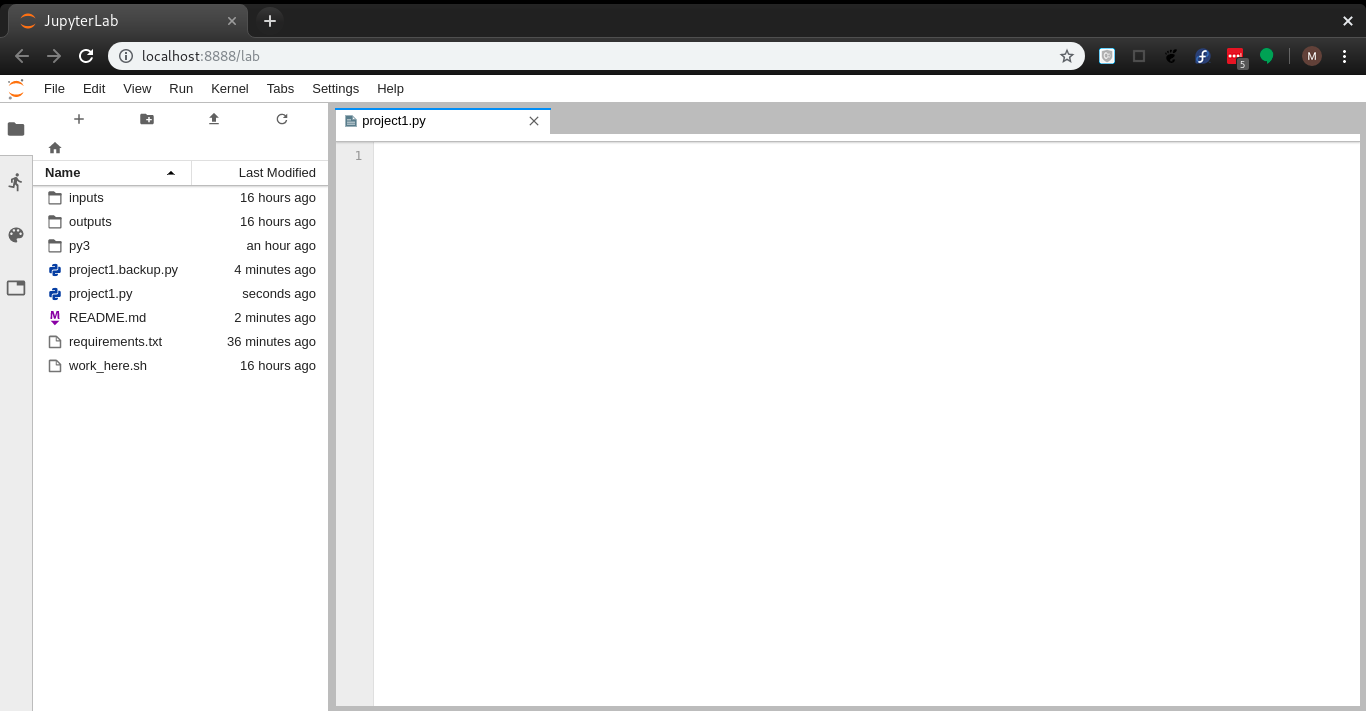
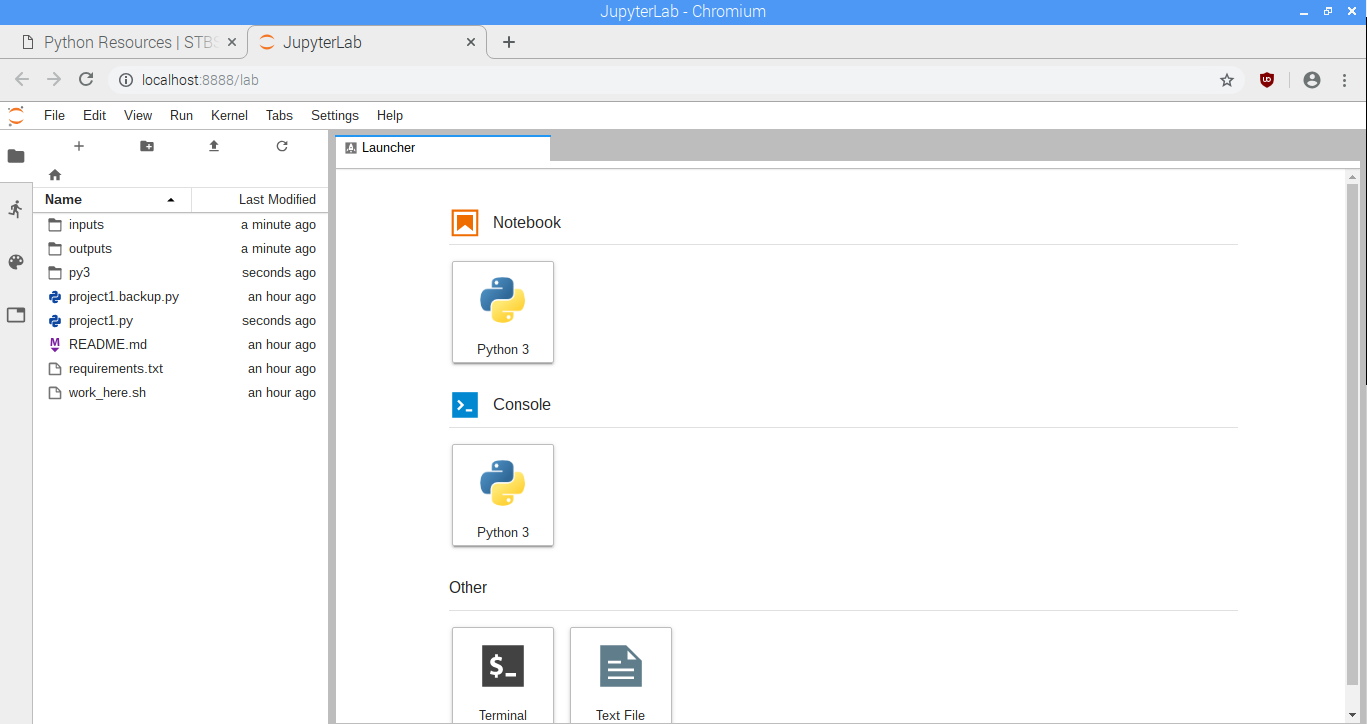
instructions updates after dry run

diff --git a/Python/Projects/project1/project1.backup.py b/Python/Projects/project1/project1.backup.py
@@ -48,20 +48,27 @@ def plot_without_pandas():
             # Split each line into a list of values,
             # using a comma as the separation point
             split_line = line.split(",")
-            # Add the first value of the split line to our list of x values
-            # This will also strip out any extra spaces and convert the value
-            # to a number
-            x.append(float(split_line[0].strip()))
-            # Build up every other list the same way
-            y.append(float(split_line[1].strip()))
-            sin.append(float(split_line[2].strip()))
-            cos.append(float(split_line[3].strip()))
+
+            x_temp = split_line[0].strip()
+            y_temp = split_line[1].strip()
+            sin_temp = split_line[2].strip()
+            cos_temp = split_line[3].strip()
+
+            x_temp = float(x_temp)
+            y_temp = float(y_temp)
+            sin_temp = float(sin_temp)
+            cos_temp = float(cos_temp)
+
+            x.append(x_temp)
+            y.append(y_temp)
+            sin.append(sin_temp)
+            cos.append(cos_temp)
 
             # If you want to watch the list grow, you can use python's input
             # function. Input will print a message, and wait for the user to
             # press 'enter'. To pause the loop and print the list x,
-            # uncomment the next line:
-            # input(x)
+            # remove the # from the line below:
+            #input(x)
         # See https://matplotlib.org/3.1.0/tutorials/introductory/pyplot.html
         # For more on plotting with matplotlib.pyplot
         plt.figure()

diff --git a/Python/README.md b/Python/README.md
@@ -5,32 +5,34 @@
 
 #### Anaconda install guide:
 ##### This guide assumes you already followed [linux guide 1.a.](../Linux/README.md)
-1. Get the linux installer for x86_64. Click [here](https://repo.anaconda.com/archive/Anaconda3-2019.03-Linux-x86_64.sh) to start the download.
+1. Get the linux installer for x86_64. Click [here](https://repo.anaconda.com/archive/Anaconda3-2019.03-Linux-x86_64.sh) to start the download. When the download finishes, you'll see a warning that the file is unsafe. Click 'Keep', it's an installer and it's safe. You can continue to step 2 and 3 while you're waiting for this download to finish.
+  ![keep_this_file](Pictures/keep_this_file.png)
 2. Open a terminal
   ![terminal](Pictures/terminal.png)
   ![terminal2](Pictures/terminal2.png)
 3. Run these commands:
 
-  * `sudo apt-get update`
-
-  * `sudo apt-get -y install libbz2-1.0:amd64 libgl1:amd64`
-    * These commands will install packages you need to install anaconda. You can paste things into a terminal with right click + paste (ctrl-v doesn't work)
+  * `sudo apt-get update ; sudo apt-get -y install libbz2-1.0:amd64 libgl1:amd64`
+    * These commands will install packages you need to install anaconda. You can paste things into a terminal with right click + paste, or ctrl-shift-v (regular ctrl-v doesn't work). Do not run the next command until the Anaconda download finishes.
 
   * `chmod +x Downloads/Anaconda3-2019.03-Linux-x86_64.sh`
     * This command will make the anaconda installer runnable
 
-  * `bash Downloads/Anaconda3-2019.03-Linux-x86_64.sh`
+  * `bash Downloads/Anaconda3-2019.03-Linux-x86_64.sh -b`
     * This will run the installer
-    * You will be prompted to accept a license (type yes, hit enter), choose a default install location (hit enter), and run conda init (type yes, hit enter)
-    * After the installer is done, it will tell you to open a new terminal for the changes to take effect. When you open a new terminal you should see:
-      `(base) pi@raspberrypi:~ $`
+
+  * `source anaconda3/bin/activate`
+    * This will 'activate' the new Anaconda environment that you just installed
+
+  * `conda init ; source .bashrc`
+    * This will make sure your new anaconda environment is activated by default
 
 4. Make Chromium your default browser. Here are pictures to show you how:
-![default_browser1](Pictures/default_browser1.png)
-![default_browser2](Pictures/default_browser2.png)
-![default_browser3](Pictures/default_browser3.png)
-![default_browser4](Pictures/default_browser4.png)
-![default_browser5](Pictures/default_browser5.png)
+  ![default_browser1](Pictures/default_browser1.png)
+  ![default_browser2](Pictures/default_browser2.png)
+  ![default_browser3](Pictures/default_browser3.png)
+  ![default_browser4](Pictures/default_browser4.png)
+  ![default_browser5](Pictures/default_browser5.png)
 
 #### Next Steps:
 
@@ -40,7 +42,7 @@ This website, and all the guides and projects displayed here, live in a code rep
 `git clone https://github.com/mzurzolo/STBS.git`
 
 ##### When that command finishes, you should see a new folder named STBS. You can run `ls` to check.
-##### To get the most updated version of the projects:
+##### To get the most updated version of the projects (you don't need to run these commands now. If you just cloned the repository, you have the latest version.):
 1. Change directory to STBS: `cd ./STBS`
 2. Get any updates: `git pull`
 

diff --git a/Python/Projects/project1/README.md b/Python/Projects/project1/README.md
@@ -4,6 +4,26 @@
 
 #### Goal: First project setup, generate plot.
 
+In this example, I will be showing you how to take a data file in
+CSV format (comma-separated values) and generate a chart with it. I will present two ways to do it, using two different python packages.
+
+#### Project Setup:
+* Open a terminal window
+* Navigate to the project directory: `cd ~/STBS/Python/Projects/project1`
+* Run the Project Setup Script: `source work_here.sh`
+* Launch Jupyter Lab: `jupyter lab`
+
+#### Using Jupyter Lab:
+* Jupyter lab allows you to have everything you need in one browser.
+* When you first launch jupyter lab, it should look something like this: ![jupyterlab start](../Pictures/jupyterlab_start.png)
+* There is a file explorer on the left-hand side, and a launcher on the right.
+* Launch a new terminal ![jupyterlab launcher](../Pictures/jupyterlab_terminal.png)
+* Double-click project1.py in the file explorer on the left to open it ![open_project](../Pictures/jupyterlab_open_project1.py.png)
+* You can re-arrange the terminal window by dragging the terminal tab
+* I like mine at the bottom. ![jupyterlab_drag_tab](../Pictures/jupyterlab_drag_tab.png)
+![jupyterlab_splitscreen](../Pictures/jupyterlab_splitscreen.png)
+* Having a split window like this makes it easier to edit the code you're working on, save changes, and test them. Just type `python project1.py` and hit enter to run the project. ![jupyterlab_run_project](../Pictures/jupyterlab_run_project.png)
+
 #### Relevant Documentation:
 [The Python Tutorial](https://docs.python.org/3/tutorial/index.html)
 
@@ -12,25 +32,3 @@
 [Pandas read_csv function API entry](https://pandas.pydata.org/pandas-docs/stable/reference/api/pandas.read_csv.html)
 
 [Pandas plot function (for dataframes) API entry](https://pandas.pydata.org/pandas-docs/stable/reference/api/pandas.DataFrame.plot.html?highlight=plot#pandas.DataFrame.plot)
-
-
-
-In this example, I will be showing you how to take a data file in
-CSV format (comma-separated values) and generate a chart with it. I will present two ways to do it, using two different python packages.
-
-#### Project Setup:
-* Open a terminal window
-* Navigate to the project directory: `cd STBS/Python/Projects/project1`
-* Run the Project Setup Script: `source work_here.sh`
-* Launch Jupyter Lab: `jupyter lab`
-
-#### Using Jupyter Lab:
-* Jupyter lab allows you to have everything you need in one browser.
-* When you first launch jupyter lab, it should look something like this: ![jupyterlab start](../Pictures/jupyterlab_start.png)
-* There is a file explorer on the left-hand side, and an editor on the right.
-* Click the plus sign in the top left to get a new launcher ![jupyterlab launcher](../Pictures/jupyterlab_newlauncher.png)
-* Launch a new terminal ![jupyterlab launcher](../Pictures/jupyterlab_newterminal.png)
-![jupyterlab launcher](../Pictures/jupyterlab_newterminal1.png)
-* You can re-arrange the terminal window by dragging the terminal tab
-* I like mine at the bottom. ![jupyterlab launcher](../Pictures/jupyterlab_newterminal2.png)
-* Having a split window like this makes it easier to edit the code you're working on, save changes, and test them. Just type `python project1.py` and hit enter to run the project. ![jupyterlab launcher](../Pictures/jupyterlab_newterminal3.png)

diff --git a/Linux/README.md b/Linux/README.md
@@ -45,7 +45,7 @@ Some flash drives do not handle running an entire Operating System well (even if
 
 4. While the computer is starting up, you need to access the boot menu, which is only available for a short window of time during a reboot.
 
-    * The boot menu can usually be accessed by hitting one of the F# keys during the first stages of startup. Try F12 first. (F2, F10, F11, and F12 are all commonly used keys for accessing boot menus)
+    * The boot menu can usually be accessed by hitting one of the F# keys during the first stages of startup. Try F12 first. (F12, F11, F10, and F2, are all commonly used keys for accessing boot menus)
 
     * You should hit the F# key as soon as you see the first logo appear on your screen, and you may need to hit it more than once.
 
@@ -57,8 +57,20 @@ Some flash drives do not handle running an entire Operating System well (even if
 
 5. Once you have the boot menu up, you need to tell the computer to boot your newly-created flash drive. These menu options vary from one computer to another, but here are some general notes/things to look for:
 
-  * If you see "One time boot menu", "UEFI", "BIOS", or "Legacy", you're likely in the right place. Look for an option that has "UEFI", "USB", "USB Hard disk", "<your flash drive's brand name>", "Stretch", "RPD", "Debian", or some other indication that it's your newly-created flash drive. Select this option.
+  * If you see "One time boot menu", or "UEFI", you're likely in the right place. Look for an option that has "UEFI:<your flash drive's brand name>", "UEFI:<your flash drive's brand name> Partition 1", "USB", "USB Hard disk", or some other indication that it's your newly-created flash drive. Select this option.
 
-  * If you DON'T see any of the words above, you should be looking for sections that say things like: "Hardware", "Boot", "Boot order", or "Advanced". The goal is to tell your computer to boot from your flash drive.
+  * If you DON'T see any of the words above, [open an issue](https://github.com/mzurzolo/STBS/issues).
+
+6. Once you successfully boot your flash drive, follow the setup prompts:
+  * Set timezone and keyboard info
+  ![rpd_timezone](Pictures/rpd_set_timezone.png)
+  * You don't need to change your password unless you want to
+  ![rpd_change_password](Pictures/rpd_change_password.png)
+  * If you see a black border around your screen, check the box
+  ![rpd_setup_screen](Pictures/rpd_setup_screen.png)
+  * Setup wifi
+  ![rpd_wifi_password](Pictures/rpd_wifi_password.png)
+  * You don't need to update software just yet, and it will prevent you from doing the next part of this guide until the update completes. You can hit skip, or just leave the window open and continue to the next python getting started guide. You also don't need to reboot your computer. You CAN update software and do the reboot, but it isn't necessary, and requires waiting.
+  ![rpd_software_update](Pictures/rpd_software_update.png)
 
 #### Continue to the [python getting started guide](../Python/README.md)

diff --git a/Python/Projects/README.md b/Python/Projects/README.md
@@ -4,7 +4,7 @@
 1. I will assume you have Anaconda, and you have cloned this repository with `git clone https://github.com/mzurzolo/STBS.git`
 2. I will assume you are starting each new project by opening a new terminal window. _If you don't want to open a new terminal window, the command `cd` on its own will bring you back to your home directory, and the command `deactivate` will reset your 'python environment' (more on that later)._
 
-  I will provide a quick command to get you to the project. _example: `cd STBS/Python/Projects/project1`_
+  I will provide a quick command to get you to the project. _example: `cd ~/STBS/Python/Projects/project1`_
 
   and a 'setup script' to automate some setup tasks. This script will always be called *work_here.sh*, and the command to run it is: `source work_here.sh`
 
@@ -28,7 +28,7 @@
 
 #### Documentation:
 * Documentation is like a User's/Owner's manual
-* Most software projects have documentation
+* Most software packages/products have documentation
 * Good documentation includes quick start guides, examples, and a description of how to use the project (called an API)
 * Relevant documentation will be linked in project directions, and in the comments of the projects themselves (comments are lines in a computer program that the computer ignores. They're notes to the programmer. Comments in python start with a # or have triple quotes around them)
 
